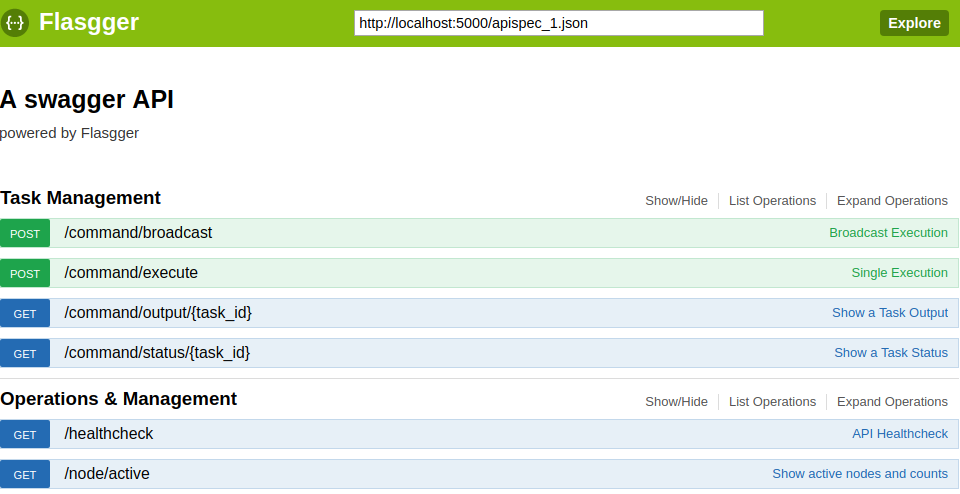
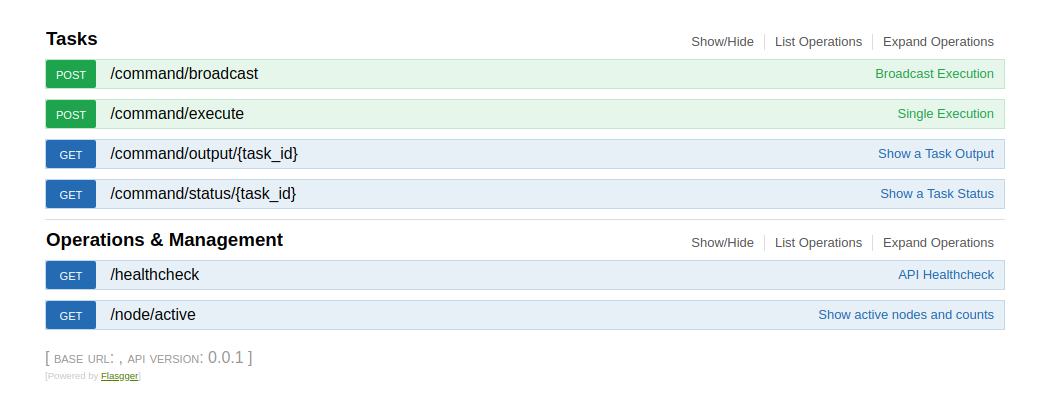
fix swagger endpoints

diff --git a/service/core/output.py b/service/core/output.py
@@ -9,14 +9,13 @@ class TaskOutput(Resource):
         """Show a Task Output
         ---
         tags:
-        - Task Management
+        - Tasks
         parameters:
-          - name: TaskId
-            in: path
-            type: string
-            enum: ['45e972c3-5227-4982-bed9-f475d925825e']
-            required: true
-            default: all
+            - in: path
+              name: task_id
+              type: string
+              required: true
+              description: The uuid of your task.
         responses:
             200:
                 description: Show a Task Output

diff --git a/service/core/status.py b/service/core/status.py
@@ -10,7 +10,13 @@ class TaskStatus(Resource):
         This is using docstrings for specifications.
         ---
         tags:
-        - Task Management
+        - Tasks
+        parameters:
+            - in: path
+              name: task_id
+              type: string
+              required: true
+              description: The uuid of your task.
         responses:
             200:
                 description: Show a Task Status

diff --git a/service/core/runner.py b/service/core/runner.py
@@ -8,7 +8,7 @@ def command_runner():
     Single Execution
     ---
     tags:
-      - Task Management
+      - Tasks
     parameters:
       - name: body
         in: body
@@ -48,7 +48,7 @@ def broadcast():
     Broadcast Execution
     ---
     tags:
-      - Task Management
+      - Tasks
     parameters:
       - name: body
         in: body
